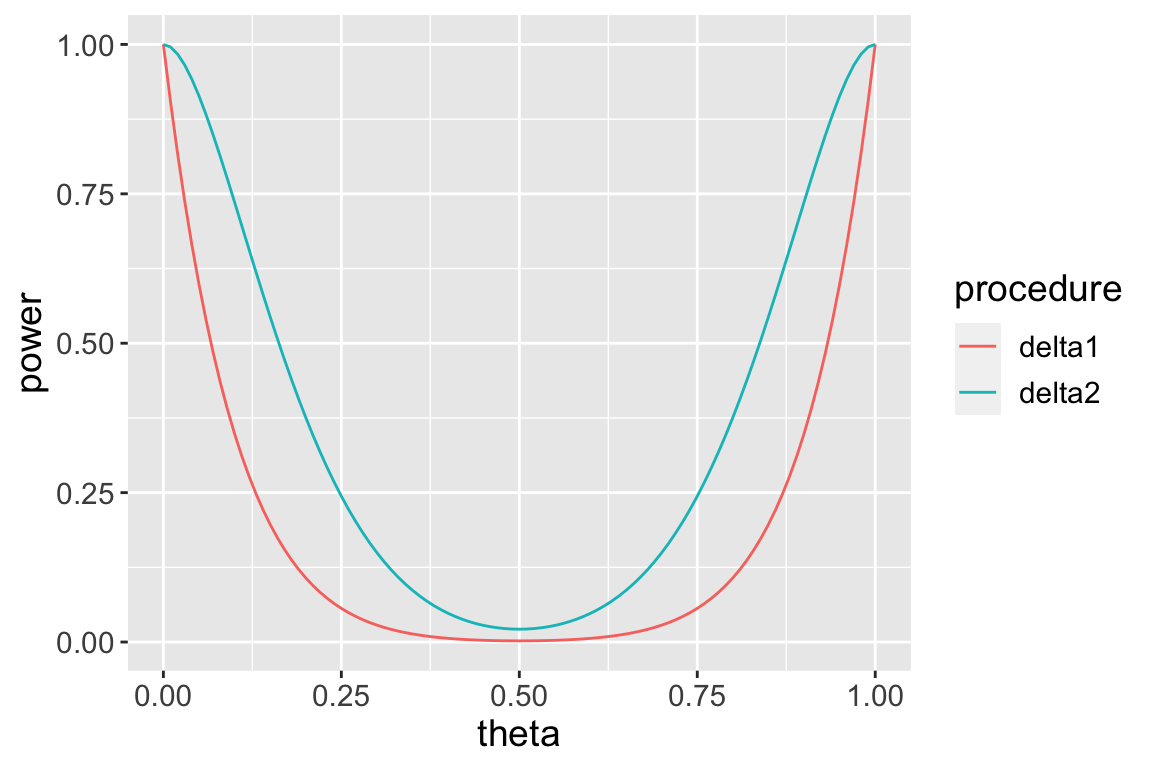
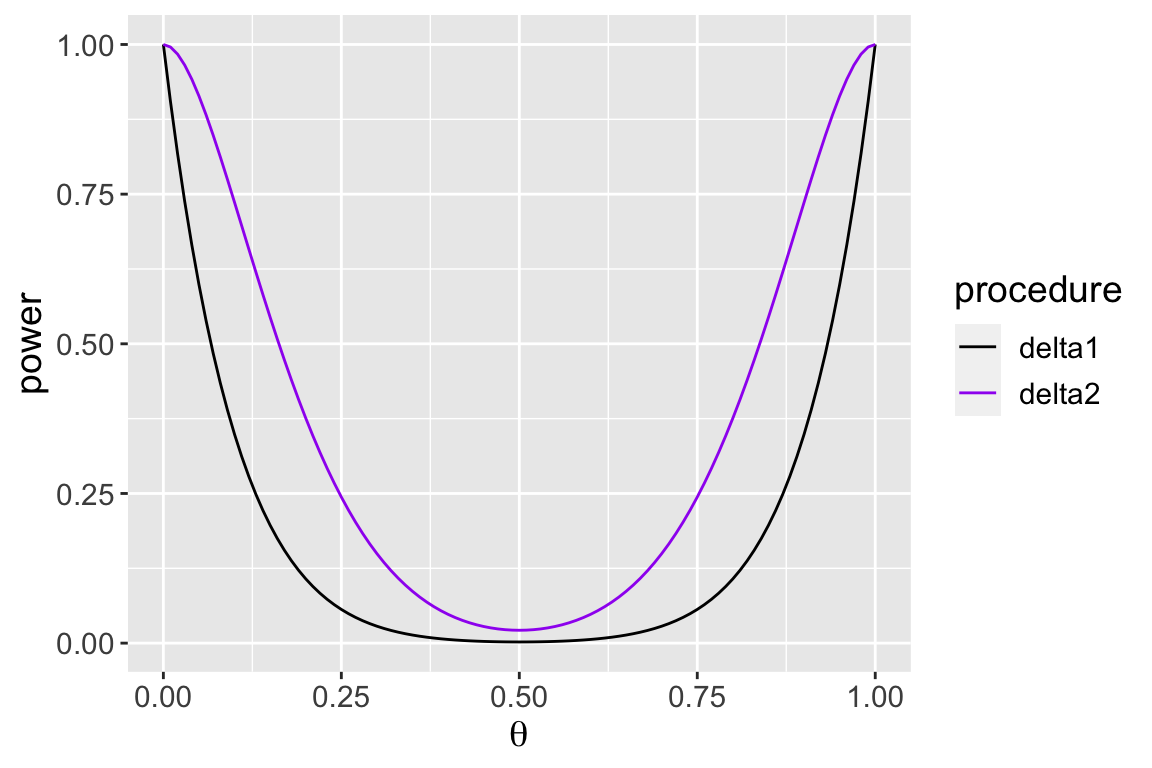
add power functio nexample

diff --git a/docs/weeks/class/power_fns.html b/docs/weeks/class/power_fns.html
@@ -245,6 +245,11 @@ code span.wa { color: #60a0b0; font-weight: bold; font-style: italic; } /* Warni
   <a href="../../weeks/week-09.html" class="sidebar-item-text sidebar-link">Week 09</a>
   </div>
 </li>
+        <li class="sidebar-item">
+  <div class="sidebar-item-container"> 
+  <a href="../../weeks/week-10.html" class="sidebar-item-text sidebar-link">Week 10</a>
+  </div>
+</li>
     </ul>
     </div>
 </nav>
@@ -300,16 +305,19 @@ code span.wa { color: #60a0b0; font-weight: bold; font-style: italic; } /* Warni
 <span id="cb1-10"><a href="#cb1-10" aria-hidden="true" tabindex="-1"></a>  <span class="fu">return</span>(ret)</span>
 <span id="cb1-11"><a href="#cb1-11" aria-hidden="true" tabindex="-1"></a>}</span>
 <span id="cb1-12"><a href="#cb1-12" aria-hidden="true" tabindex="-1"></a></span>
-<span id="cb1-13"><a href="#cb1-13" aria-hidden="true" tabindex="-1"></a>n <span class="ot">&lt;-</span> <span class="dv">10</span></span>
-<span id="cb1-14"><a href="#cb1-14" aria-hidden="true" tabindex="-1"></a>theta_vals <span class="ot">&lt;-</span> <span class="fu">seq</span>(<span class="dv">0</span>, <span class="dv">1</span>, <span class="fl">0.01</span>)</span>
-<span id="cb1-15"><a href="#cb1-15" aria-hidden="true" tabindex="-1"></a>delta1 <span class="ot">&lt;-</span> <span class="fu">power_fn</span>(theta_vals, n, <span class="fu">c</span>(<span class="dv">0</span>, <span class="dv">10</span>))</span></code><button title="Copy to Clipboard" class="code-copy-button"><i class="bi"></i></button></pre></div>
+<span id="cb1-13"><a href="#cb1-13" aria-hidden="true" tabindex="-1"></a></span>
+<span id="cb1-14"><a href="#cb1-14" aria-hidden="true" tabindex="-1"></a><span class="co"># create sequence of theta values for plotting purposes</span></span>
+<span id="cb1-15"><a href="#cb1-15" aria-hidden="true" tabindex="-1"></a>theta_vals <span class="ot">&lt;-</span> <span class="fu">seq</span>(<span class="dv">0</span>, <span class="dv">1</span>, <span class="fl">0.01</span>)</span>
+<span id="cb1-16"><a href="#cb1-16" aria-hidden="true" tabindex="-1"></a>n <span class="ot">&lt;-</span> <span class="dv">10</span></span>
+<span id="cb1-17"><a href="#cb1-17" aria-hidden="true" tabindex="-1"></a>delta1 <span class="ot">&lt;-</span> <span class="fu">power_fn</span>(theta_vals, n, <span class="fu">c</span>(<span class="dv">0</span>, <span class="dv">10</span>))</span></code><button title="Copy to Clipboard" class="code-copy-button"><i class="bi"></i></button></pre></div>
 </div>
 <div class="cell">
 <div class="sourceCode cell-code" id="cb2"><pre class="sourceCode r code-with-copy"><code class="sourceCode r"><span id="cb2-1"><a href="#cb2-1" aria-hidden="true" tabindex="-1"></a><span class="fu">library</span>(tidyverse)</span>
 <span id="cb2-2"><a href="#cb2-2" aria-hidden="true" tabindex="-1"></a><span class="fu">data.frame</span>(<span class="at">theta =</span> theta_vals, <span class="at">power =</span> delta1) <span class="sc">%&gt;%</span></span>
 <span id="cb2-3"><a href="#cb2-3" aria-hidden="true" tabindex="-1"></a>  <span class="fu">ggplot</span>(., <span class="fu">aes</span>(<span class="at">x =</span> theta, <span class="at">y =</span> power)) <span class="sc">+</span></span>
 <span id="cb2-4"><a href="#cb2-4" aria-hidden="true" tabindex="-1"></a>  <span class="fu">geom_line</span>()<span class="sc">+</span></span>
-<span id="cb2-5"><a href="#cb2-5" aria-hidden="true" tabindex="-1"></a>  <span class="fu">theme</span>(<span class="at">text =</span> <span class="fu">element_text</span>(<span class="at">size =</span> <span class="dv">14</span>))</span></code><button title="Copy to Clipboard" class="code-copy-button"><i class="bi"></i></button></pre></div>
+<span id="cb2-5"><a href="#cb2-5" aria-hidden="true" tabindex="-1"></a>  <span class="fu">xlab</span>(<span class="fu">expression</span>(theta)) <span class="sc">+</span></span>
+<span id="cb2-6"><a href="#cb2-6" aria-hidden="true" tabindex="-1"></a>  <span class="fu">theme</span>(<span class="at">text =</span> <span class="fu">element_text</span>(<span class="at">size =</span> <span class="dv">14</span>))</span></code><button title="Copy to Clipboard" class="code-copy-button"><i class="bi"></i></button></pre></div>
 <div class="cell-output-display">
 <p><img src="power_fns_files/figure-html/unnamed-chunk-2-1.png" class="img-fluid" width="576"></p>
 </div>
@@ -326,11 +334,14 @@ code span.wa { color: #60a0b0; font-weight: bold; font-style: italic; } /* Warni
 <span id="cb3-3"><a href="#cb3-3" aria-hidden="true" tabindex="-1"></a>  <span class="fu">pivot_longer</span>(<span class="at">cols =</span> <span class="dv">2</span><span class="sc">:</span><span class="dv">3</span>, <span class="at">names_to =</span> <span class="st">"procedure"</span>, <span class="at">values_to =</span> <span class="st">"power"</span>) <span class="sc">%&gt;%</span></span>
 <span id="cb3-4"><a href="#cb3-4" aria-hidden="true" tabindex="-1"></a>  <span class="fu">ggplot</span>(.,<span class="fu">aes</span>(<span class="at">x =</span> theta, <span class="at">y =</span> power, <span class="at">col =</span> procedure)) <span class="sc">+</span></span>
 <span id="cb3-5"><a href="#cb3-5" aria-hidden="true" tabindex="-1"></a>  <span class="fu">geom_line</span>() <span class="sc">+</span> </span>
-<span id="cb3-6"><a href="#cb3-6" aria-hidden="true" tabindex="-1"></a>  <span class="fu">theme</span>(<span class="at">text =</span> <span class="fu">element_text</span>(<span class="at">size =</span> <span class="dv">14</span>))</span></code><button title="Copy to Clipboard" class="code-copy-button"><i class="bi"></i></button></pre></div>
+<span id="cb3-6"><a href="#cb3-6" aria-hidden="true" tabindex="-1"></a>  <span class="fu">scale_color_manual</span>(<span class="at">values =</span> <span class="fu">c</span>(<span class="st">"black"</span>, <span class="st">"purple"</span>))<span class="sc">+</span></span>
+<span id="cb3-7"><a href="#cb3-7" aria-hidden="true" tabindex="-1"></a>  <span class="fu">xlab</span>(<span class="fu">expression</span>(theta)) <span class="sc">+</span></span>
+<span id="cb3-8"><a href="#cb3-8" aria-hidden="true" tabindex="-1"></a>  <span class="fu">theme</span>(<span class="at">text =</span> <span class="fu">element_text</span>(<span class="at">size =</span> <span class="dv">14</span>))</span></code><button title="Copy to Clipboard" class="code-copy-button"><i class="bi"></i></button></pre></div>
 <div class="cell-output-display">
 <p><img src="power_fns_files/figure-html/unnamed-chunk-3-1.png" class="img-fluid" width="576"></p>
 </div>
 </div>
+<p>How do the two testing procedures <span class="math inline">\(\delta_{1}\)</span> and <span class="math inline">\(\delta_{2}\)</span> compare with respect to the probabilities of committing a Type I vs.&nbsp;Type II error?</p>
 
 
 </section>

diff --git a/docs/weeks/week-09.html b/docs/weeks/week-09.html
@@ -224,7 +224,8 @@ ul.task-list li input[type="checkbox"] {
 </ul>
 <p><strong>Class activity</strong></p>
 <ul>
-<li>Hypothesis test power and error <a href="class/16_ht_1.pdf">practice problems</a></li>
+<li><p><a href="../weeks/class/power_fns.html">Power function example</a> from class</p></li>
+<li><p>Hypothesis test power and error <a href="class/16_ht_1.pdf">practice problems</a></p></li>
 </ul>
 <hr>
 <section id="thursday-0418" class="level3" style="color: #6284a2">
